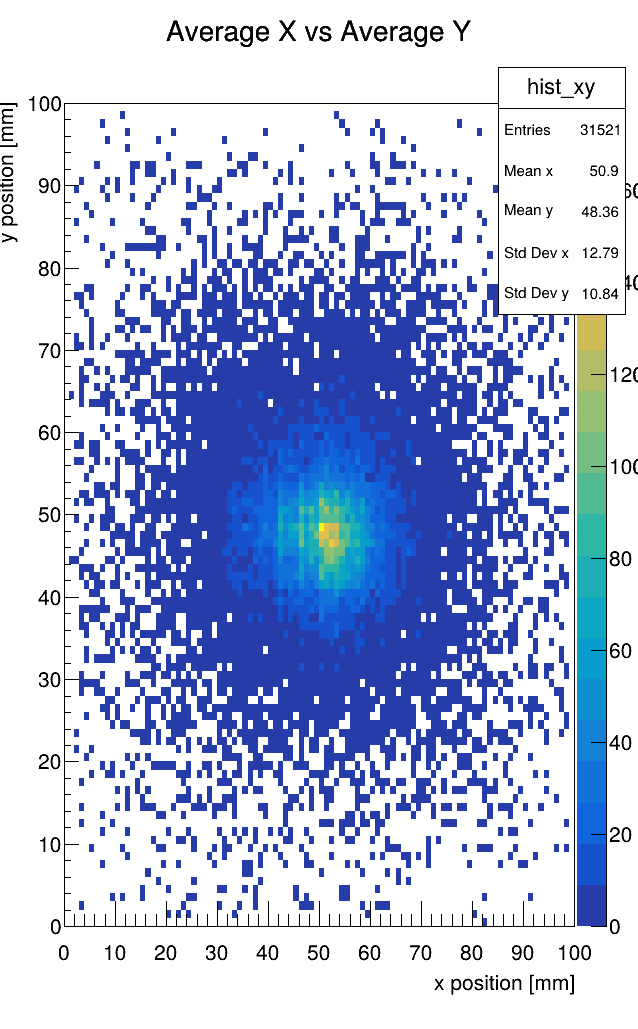
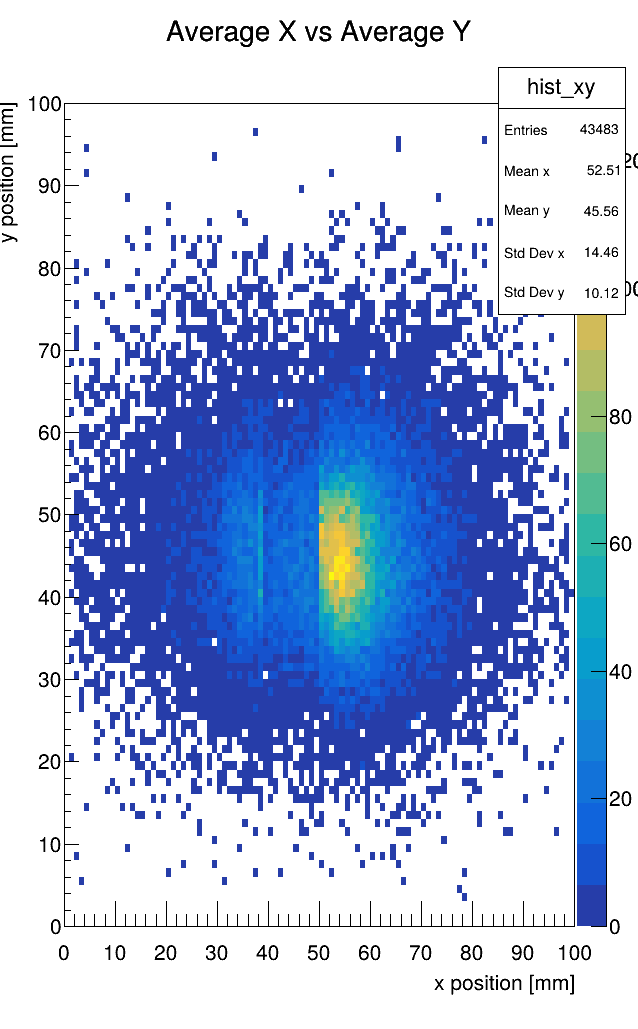
some improvements

diff --git a/src/read_data.py b/src/read_data.py
@@ -1,6 +1,7 @@
 import ROOT
 import numpy as np
 import matplotlib.pyplot as plt
+from itertools import product
 
 # Open the ROOT file
 file = ROOT.TFile.Open("../data/run87.root")
@@ -38,7 +39,7 @@ for i in range(n):
 # Create 1D histogram
 hist_xpos = ROOT.TH1F("hist_xpos", "X Position (only ID=0 or 1);x position [mm];counts", 100, 0, 100)
 hist_ypos = ROOT.TH1F("hist_ypos", "Y Position (only ID=2 or 3);y position [mm];counts", 100, 0, 100)
-hist_charge = ROOT.TH1F("hist_charge", "title", 100, 0, 100)
+hist_charge = ROOT.TH1F("hist_charge", "title", 100, 0, 2500)
 
 # Create 2D histogram: average X vs average Y
 hist_xy = ROOT.TH2F("hist_xy", "Average X vs Average Y;x position [mm];y position [mm]", 100, 0, 100, 100, 0, 100)
@@ -46,10 +47,10 @@ hist_xy_no_avg = ROOT.TH2F("hist_xy_no_avg", "NOT Average X vs Average Y;x posit
 
 
 # Loop through events
-for entry in raw_tree:
+for entry_raw in raw_tree:
 
     # number of hits per triggered event (abt every 25ns)
-    num_hits = len(entry.apv_id)
+    num_hits = len(entry_raw.apv_id)
 
     x_pos = 0
     sum_x = 0
@@ -61,24 +62,31 @@ for entry in raw_tree:
     # sort where a particle hit
     for i in range(num_hits):
 
-        charge = entry.apv_q[i]
-
+        #charge_max = entry_data.apv_qmax[i]
+        charge = entry_raw.apv_q[i] # type: {1,2,3,,,,}
+        # len = 26 for every entry
+        # print(len(charge)) # type seems to be vector
         # print(max(charge))
 
-        # len = 26 = num_hits for first entry
-        # print(len(charge)) # type seems to be vector
+        # this is true
+        # print(charge_max == max(charge))
 
+        hist_charge.Fill(max(charge))
+        
         # id of the apv which registers event
-        apv_id = entry.apv_id[i]
-        strip = entry.mm_strip[i]
+        apv_id = entry_raw.apv_id[i]
+        strip = entry_raw.mm_strip[i]
+        entry_raw.mm_strip.push_back(0)
+        entry_raw.mm_strip.push_back(0)
 
         # to filter noise. this value can be adjusted to get a desired gaussian profile
-        # TODO is general threshold for charge (i.e. count only when charge is within x std_dev) better than fixed value??
-        #if max(charge) > 4 * np.std(charge):
-        if max(charge) > 1300:
+        # highest charge doesn't seem to be the events we are looking for. see hist_charge plot. low charge are the most events
+        #if True:
+        if ((strip + 1) == entry_raw.mm_strip[i+1] and (strip + 1) == entry_raw.mm_strip[i+1] and max(charge) > 80 and max(charge) < 1000):
+        #if ((strip + 1) != entry_raw.mm_strip[i+1] and (strip + 2) != entry_raw.mm_strip[i+2] and max(charge) > 80 and max(charge) < 1000):
             # x
             if apv_id in [0,1]:
-                x_pos = strip * 100. / 256.
+                x_pos = strip * 100./256. # 10cm long and 256 strips
                 hist_xpos.Fill(x_pos) # counts events that happen at a certain x position
                 sum_x += x_pos * max(charge)
                 num_hits_x += max(charge)
@@ -97,7 +105,7 @@ for entry in raw_tree:
 
     # average over all events
     # TODO weigh hits 
-    ## weigh with charge seems to make not much of a difference
+    # weigh with charge seems to make not much of a difference
     if num_hits_x > 0 and num_hits_y > 0:
         # average position which is hit, i.e. hit at 2 and hit at 10 will be hit at 6 = (2+10)/2
         # TODO actually don't average this??
@@ -110,10 +118,10 @@ for entry in raw_tree:
 # TODO fit gaussian curve to x and y
 
 # fits
-fit_x = ROOT.TF1("fit_x", "gaus", 0, 100)
-hist_xpos.Fit("fit_x")
-fit_y = ROOT.TF1("fit_y", "gaus", 0, 100)
-hist_ypos.Fit("fit_y")
+#fit_x = ROOT.TF1("fit_x", "gaus", 0, 100)
+#hist_xpos.Fit("fit_x")
+#fit_y = ROOT.TF1("fit_y", "gaus", 0, 100)
+#hist_ypos.Fit("fit_y")
 
 c = ROOT.TCanvas("c", "Canvas", 800, 600)
 hist_xpos.Draw()
@@ -121,6 +129,9 @@ c.SaveAs("x_position_histogram.png")  # Optional: save plot
 
 hist_ypos.Draw()
 c.SaveAs("y_position_histogram.png")  # Optional: save plot
+
+hist_charge.Draw()
+c.SaveAs("hist_charge.png")
 
 # 2D hit map
 hist_xy.Draw("COLZ")
